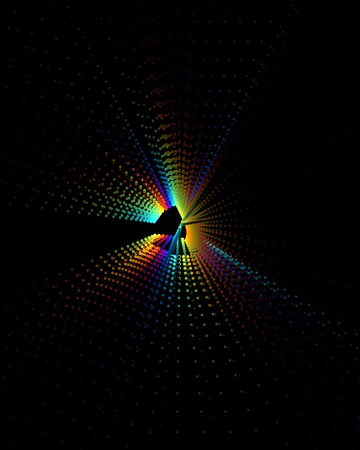
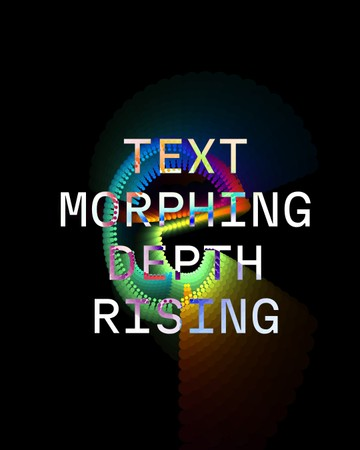
add render title to text morphing sketches

Changed region(s): [[0.1528, 0.2178, 0.8861, 0.9333]]

diff --git a/src/p5-sketches/sketches/text-morphing/text-morphing-capitalize/index.js b/src/p5-sketches/sketches/text-morphing/text-morphing-capitalize/index.js
@@ -3,21 +3,21 @@ import sketch from "@/p5/utils/sketch.js";
 
 import colors from "@/p5/utils/colors.js";
 import easing from "@/p5/utils/easing.js";
-import mappers from "@/p5/utils/mappers.js";
-import animation from "@/p5/utils/animation.js";
 import string from "@/p5/utils/string.js";
+import mappers from "@/p5/utils/mappers.js";
+import graphics from "@/p5/utils/graphics.js";
+import animation from "@/p5/utils/animation.js";
+import renderTitle from "@/p5/utils/title/renderTitle.js";
 
 const sketchState = {
   threeDimensionGraphics: null,
 };
 
 sketch.setup(
-  ( {
-    canvas
-  } ) => {
-    sketchState.threeDimensionGraphics = createGraphics(
-      canvas.width,
-      canvas.height,
+  ( ) => {
+    sketchState.threeDimensionGraphics = graphics.createAutoResizableGraphics(
+      width,
+      height,
       "webgl"
     );
   },
@@ -393,4 +393,7 @@ sketch.draw( (
     0
   );
   sketchState.threeDimensionGraphics.clear();
+  sketchState.threeDimensionGraphics.reset();
+
+  renderTitle();
 } );

diff --git a/src/p5-sketches/sketches/text-morphing/text-morphing-capitalize/options.ts b/src/p5-sketches/sketches/text-morphing/text-morphing-capitalize/options.ts
@@ -2,6 +2,8 @@ import easing from "@/p5/utils/easing";
 import {
   fontNames
 } from "@/components/ClientProcessingSketch/components/TemplateOptions/components/ContentItems/constants/field-config";
+import titleDefaultValues from "@/p5/utils/title/titleDefaultValues";
+import titleFormConfiguration from "@/p5/utils/title/titleFormConfiguration";
 
 export const formValues = {
   text: {
@@ -53,6 +55,9 @@ export const formValues = {
     0,
     0
   ],
+  title: {
+    ...titleDefaultValues,
+  },
 };
 
 // UI configuration only
@@ -249,5 +254,8 @@ export const formConfiguration: Record<string, any> = {
   backgroundColor: {
     component: "color",
     label: "Background color",
+  },
+  title: {
+    ...titleFormConfiguration,
   },
 };

diff --git a/src/p5-sketches/sketches/text-morphing/text-morphing-depth/options.ts b/src/p5-sketches/sketches/text-morphing/text-morphing-depth/options.ts
@@ -6,6 +6,8 @@ import {
 import {
   createSingleOrMultipleTextOption
 } from "@/utils/sketchOptionUtils";
+import titleDefaultValues from "@/p5/utils/title/titleDefaultValues";
+import titleFormConfiguration from "@/p5/utils/title/titleFormConfiguration";
 
 export const formValues = {
   text: {
@@ -39,6 +41,9 @@ export const formValues = {
   backgroundColor: [
     0
   ],
+  title: {
+    ...titleDefaultValues,
+  },
 };
 
 // UI configuration only
@@ -182,5 +187,8 @@ export const formConfiguration: Record<string, any> = {
   backgroundColor: {
     component: "color",
     label: "Background color",
+  },
+  title: {
+    ...titleFormConfiguration,
   },
 };

diff --git a/src/p5-sketches/sketches/text-morphing/text-morphing-depth-clock/options.ts b/src/p5-sketches/sketches/text-morphing/text-morphing-depth-clock/options.ts
@@ -6,6 +6,8 @@ import {
 import {
   createSingleOrMultipleTextOption
 } from "@/utils/sketchOptionUtils";
+import titleDefaultValues from "@/p5/utils/title/titleDefaultValues";
+import titleFormConfiguration from "@/p5/utils/title/titleFormConfiguration";
 
 export const formValues = {
   text: {
@@ -53,6 +55,9 @@ export const formValues = {
     0,
     0
   ],
+  title: {
+    ...titleDefaultValues,
+  },
 };
 
 // UI configuration only
@@ -196,5 +201,8 @@ export const formConfiguration: Record<string, any> = {
   backgroundColor: {
     component: "color",
     label: "Background color",
+  },
+  title: {
+    ...titleFormConfiguration,
   },
 };

diff --git a/src/p5-sketches/sketches/text-morphing/text-morphing-rotating-scene/options.ts b/src/p5-sketches/sketches/text-morphing/text-morphing-rotating-scene/options.ts
@@ -6,6 +6,8 @@ import {
 import {
   createSingleOrMultipleTextOption
 } from "@/utils/sketchOptionUtils";
+import titleDefaultValues from "@/p5/utils/title/titleDefaultValues";
+import titleFormConfiguration from "@/p5/utils/title/titleFormConfiguration";
 
 export const formValues = {
   text: {
@@ -67,6 +69,9 @@ export const formValues = {
     0,
     0
   ],
+  title: {
+    ...titleDefaultValues,
+  },
 };
 
 // UI configuration only
@@ -238,5 +243,8 @@ export const formConfiguration: Record<string, any> = {
   backgroundColor: {
     component: "color",
     label: "Background color",
+  },
+  title: {
+    ...titleFormConfiguration,
   },
 };

diff --git a/src/p5-sketches/sketches/text-morphing/text-morphing-rotating-scene/index.js b/src/p5-sketches/sketches/text-morphing/text-morphing-rotating-scene/index.js
@@ -4,8 +4,9 @@ import sketch from "@/p5/utils/sketch.js";
 import colors from "@/p5/utils/colors.js";
 import easing from "@/p5/utils/easing.js";
 import mappers from "@/p5/utils/mappers.js";
-import animation from "@/p5/utils/animation.js";
 import string from "@/p5/utils/string.js";
+import animation from "@/p5/utils/animation.js";
+import renderTitle from "@/p5/utils/title/renderTitle.js";
 
 const sketchState = {
   threeDimensionGraphics: null,
@@ -267,4 +268,6 @@ sketch.draw( ( time ) => {
   );
   sketchState.threeDimensionGraphics.clear();
   sketchState.threeDimensionGraphics.reset();
+
+  renderTitle();
 } );

diff --git a/src/p5-sketches/sketches/text-morphing/text-morphing-depth-clock/index.js b/src/p5-sketches/sketches/text-morphing/text-morphing-depth-clock/index.js
@@ -4,8 +4,9 @@ import sketch from "@/p5/utils/sketch.js";
 import colors from "@/p5/utils/colors.js";
 import easing from "@/p5/utils/easing.js";
 import mappers from "@/p5/utils/mappers.js";
-import animation from "@/p5/utils/animation.js";
 import string from "@/p5/utils/string.js";
+import animation from "@/p5/utils/animation.js";
+import renderTitle from "@/p5/utils/title/renderTitle.js";
 
 const sketchState = {
   threeDimensionGraphics: null,
@@ -273,4 +274,5 @@ sketch.draw( ( time ) => {
   );
   sketchState.threeDimensionGraphics.clear();
   sketchState.threeDimensionGraphics.reset();
+  renderTitle();
 } );

diff --git a/src/p5-sketches/sketches/text-morphing/text-morphing-depth/index.js b/src/p5-sketches/sketches/text-morphing/text-morphing-depth/index.js
@@ -4,8 +4,9 @@ import sketch from "@/p5/utils/sketch.js";
 import colors from "@/p5/utils/colors.js";
 import easing from "@/p5/utils/easing.js";
 import mappers from "@/p5/utils/mappers.js";
-import animation from "@/p5/utils/animation.js";
 import string from "@/p5/utils/string.js";
+import animation from "@/p5/utils/animation.js";
+import renderTitle from "@/p5/utils/title/renderTitle.js";
 
 const sketchState = {
   threeDimensionGraphics: null,
@@ -269,4 +270,5 @@ sketch.draw( ( time ) => {
   );
   sketchState.threeDimensionGraphics.clear();
   sketchState.threeDimensionGraphics.reset();
+  renderTitle();
 } );
